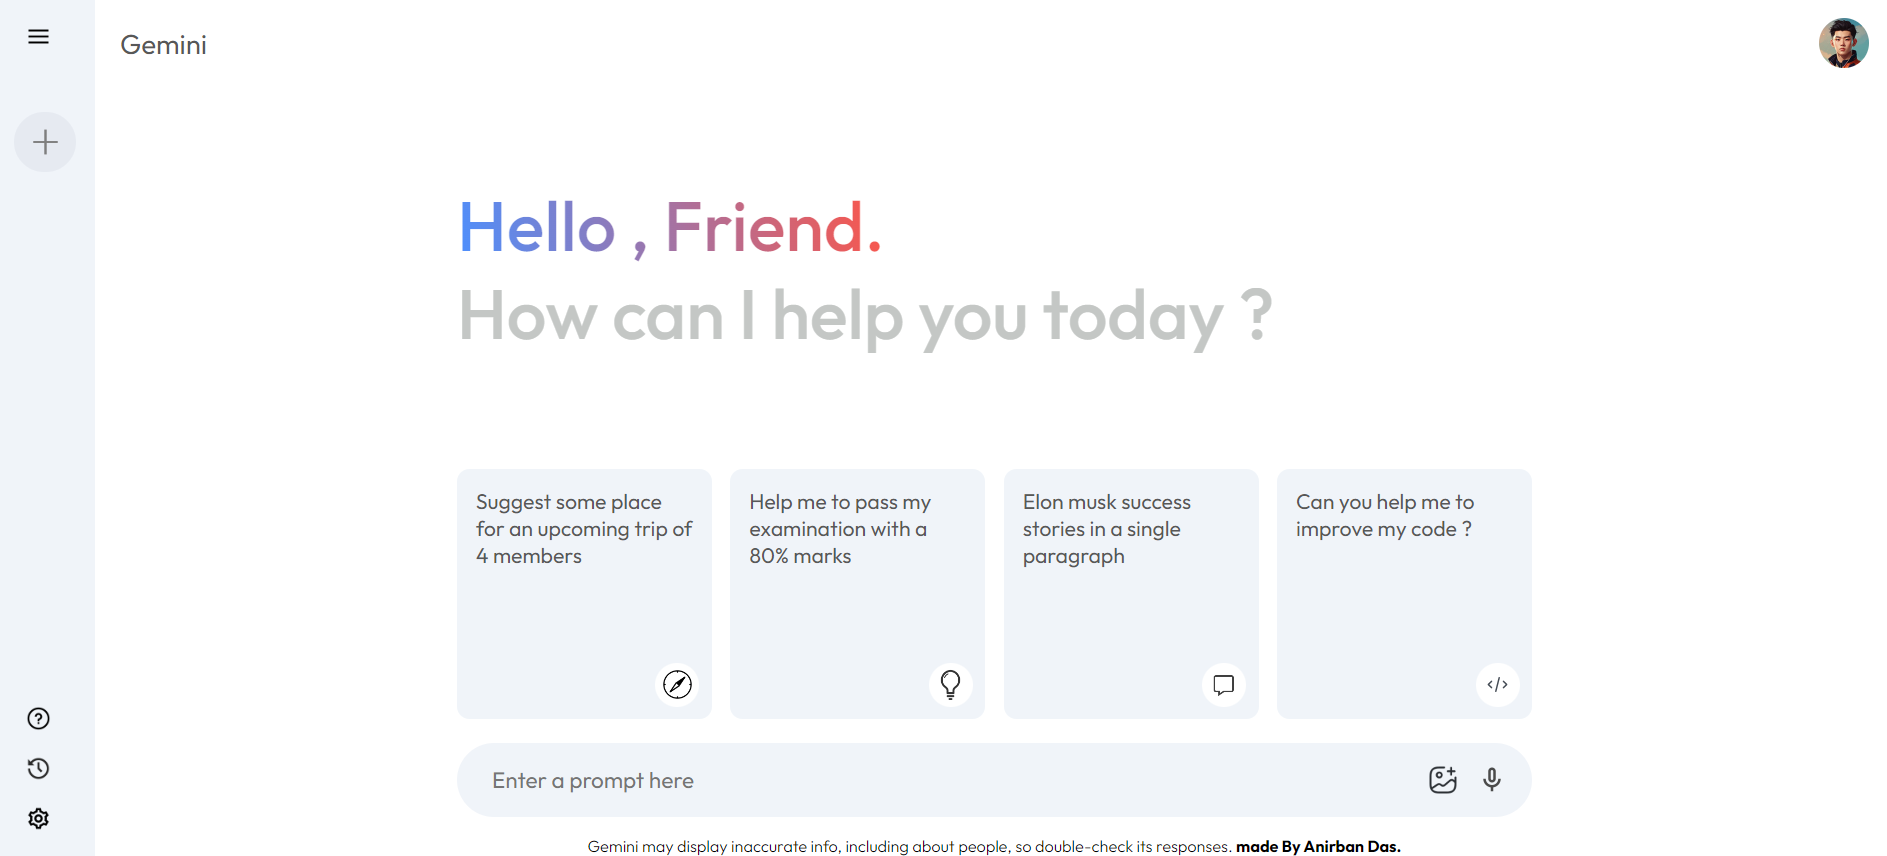
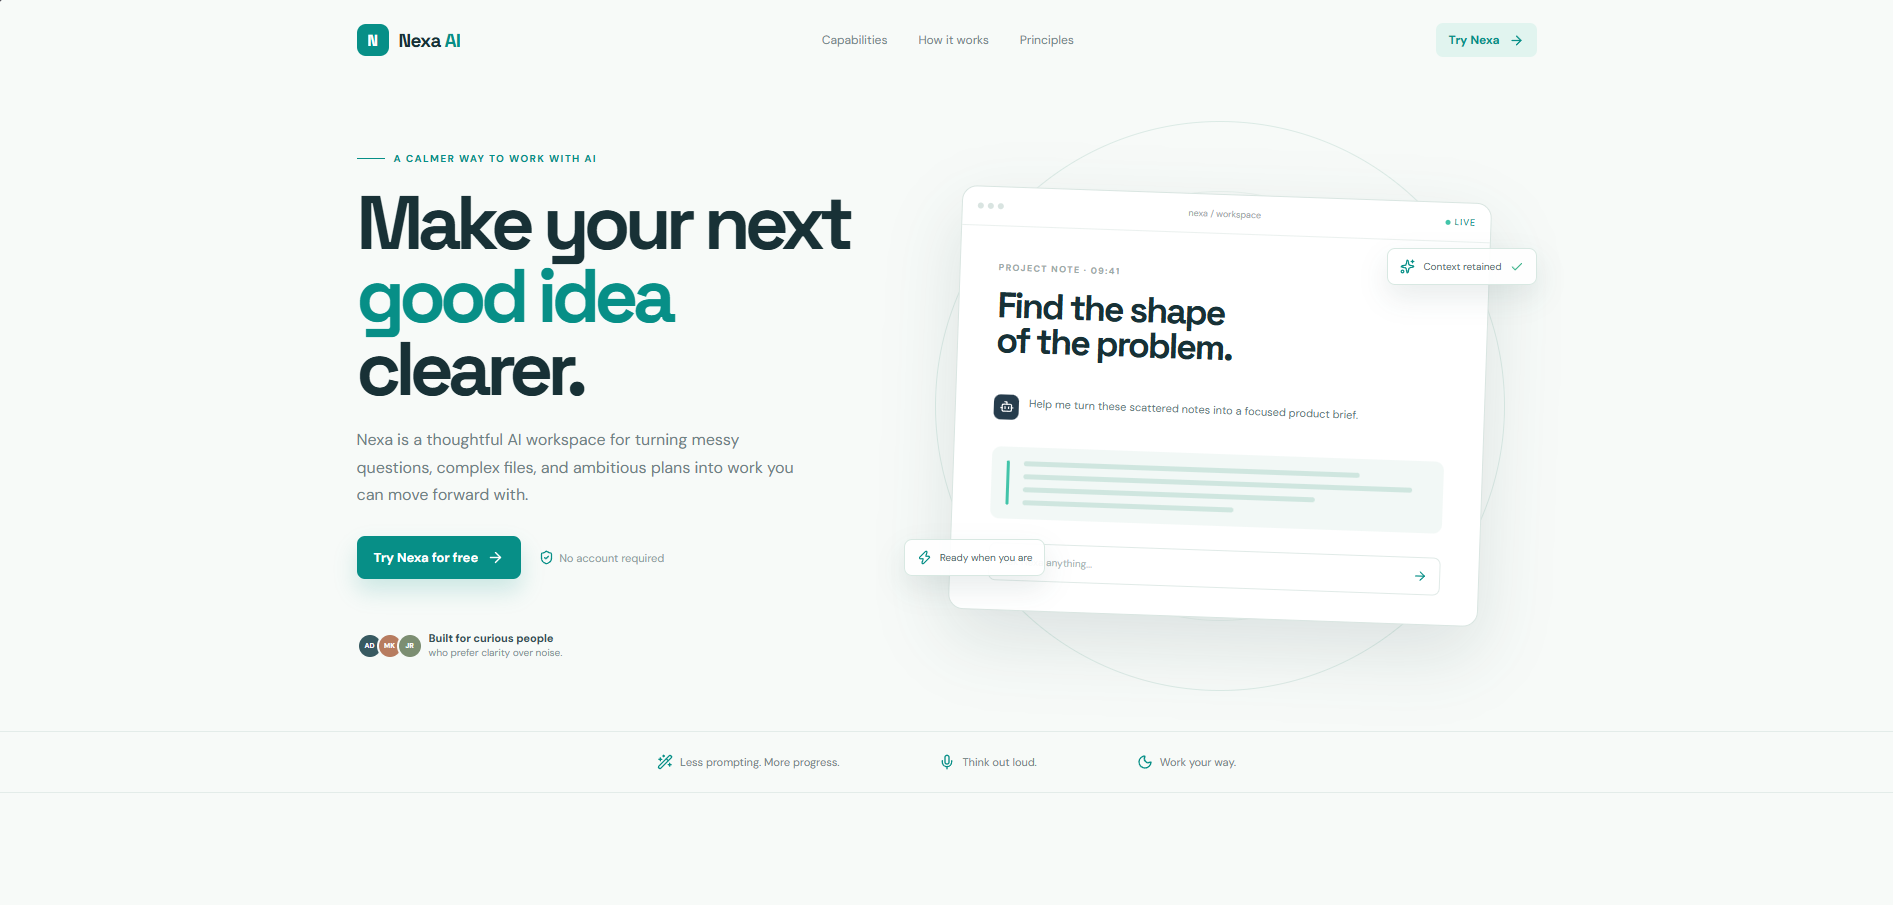
Added another Project

diff --git a/src/assets/mywork_data.js b/src/assets/mywork_data.js
@@ -1,39 +1,66 @@
 import project1_img from '../assets/project_1.png'
 import project7_img from '../assets/project_7.png'
 import project8_img from '../assets/project_8.png'
+import project9_img from '../assets/project_9.png'
 
 const mywork_data = [
     {
-        w_no:1,
-        w_name:"TextileMarket",
-        w_desc:"AI-powered B2B textile sourcing with natural-language and voice input for buyers and suppliers.",
-        w_stack:["React", "Node.js", "AI integration"],
-        w_features:["Natural-language search", "Voice search", "Buyer and supplier workflows"],
-        w_img:project7_img,
-        w_link:"https://textile-marketplace-sigma.vercel.app/",
-        w_github:"https://github.com/Anirban642/marketplace-hackathon",
-        featured:true
+        w_no: 1,
+        w_name: "TextileMarket",
+        w_desc: "AI-powered B2B textile sourcing with natural-language and voice input for buyers and suppliers.",
+        w_stack: ["React", "Node.js", "AI integration"],
+        w_features: [
+            "Natural-language search",
+            "Voice search",
+            "Buyer and supplier workflows"
+        ],
+        w_img: project7,
+        w_link: "https://textile-marketplace-sigma.vercel.app/",
+        w_github: "https://github.com/Anirban642/marketplace-hackathon",
+        featured: true
     },
     {
-        w_no:2,
-        w_name:"NOVA",
-        w_desc:"A full-stack team productivity platform for planning projects, tasks, members, and activity.",
-        w_stack:["React", "TypeScript", "Express", "Prisma", "PostgreSQL"],
-        w_features:["JWT authentication", "Kanban task board", "Comments and project members"],
-        w_img:project8_img,
-        w_link:"https://nova-pm.vercel.app/",
-        w_github:"https://github.com/Anirban642/nova-product-management"
+        w_no: 2,
+        w_name: "NOVA",
+        w_desc: "A full-stack team productivity platform for planning projects, tasks, members, and activity.",
+        w_stack: ["React", "TypeScript", "Express", "Prisma", "PostgreSQL"],
+        w_features: [
+            "JWT authentication",
+            "Kanban task board",
+            "Comments and project members"
+        ],
+        w_img: project8,
+        w_link: "https://nova-pm.vercel.app/",
+        w_github: "https://github.com/Anirban642/nova-product-management"
     },
     {
-        w_no:3,
-        w_name:"Tomato",
-        w_desc:"A MERN food delivery application with authentication, cart flows, admin features, and Stripe checkout.",
-        w_stack:["React", "Node.js", "Express", "MongoDB", "Stripe"],
-        w_features:["Authentication", "Cart and ordering", "Stripe payment flow"],
-        w_img:project1_img,
-        w_link:"https://food-del-frontend-19e4.onrender.com",
-        w_github:"https://github.com/Anirban642/tomato-react"
+        w_no: 3,
+        w_name: "Tomato",
+        w_desc: "A MERN food delivery application with authentication, cart flows, admin features, and Stripe checkout.",
+        w_stack: ["React", "Node.js", "Express", "MongoDB", "Stripe"],
+        w_features: [
+            "Authentication",
+            "Cart and ordering",
+            "Stripe payment flow"
+        ],
+        w_img: project1,
+        w_link: "https://food-del-frontend-19e4.onrender.com",
+        w_github: "https://github.com/Anirban642/tomato-react"
+    },
+    {
+        w_no: 4,
+        w_name: "Nexa AI",
+        w_desc: "AI-powered chatbot built with React and the Groq API for intelligent conversational experiences.",
+        w_stack: ["React", "Groq API", "JavaScript"],
+        w_features: [
+            "AI conversations",
+            "Groq API integration",
+            "Responsive chatbot UI"
+        ],
+        w_img: project3,
+        w_link: "https://anirban642.github.io/gemini-react/",
+        w_github: "https://github.com/Anirban642/gemini-react"
     },
 ]
- 
+
 export default mywork_data;
